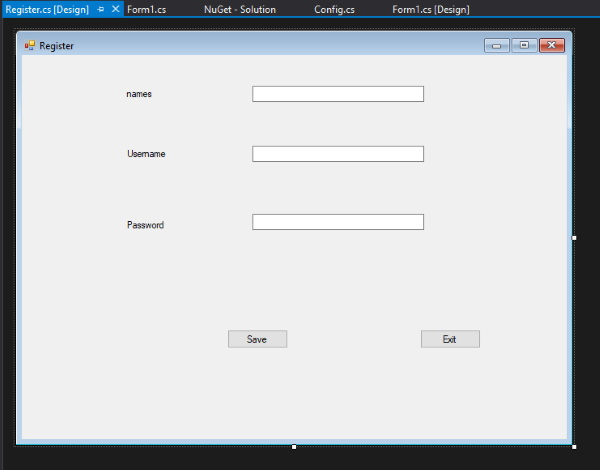
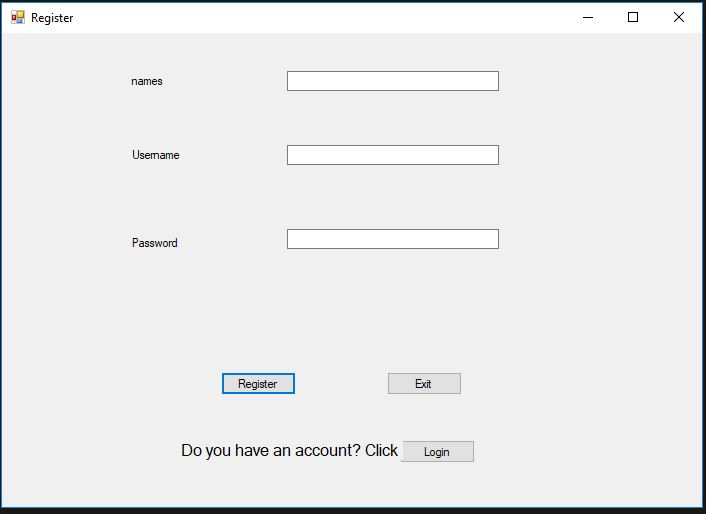
requested changes
updated

diff --git a/Create-Login-and-Register-System-with-C#-Winforms/index.md b/Create-Login-and-Register-System-with-C#-Winforms/index.md
@@ -1,6 +1,6 @@
 ### Introduction
 
-C# or C-sharp is an object-oriented programming language developed by Microsoft that runs on a framework called .Net framework. The language has been used to create many applications, including web applications, mobile applications, computer games, desktop applications, database applications, virtual reality applications, and many others.
+C# or C-sharp is an object-oriented programming language developed by Microsoft that runs on a framework called .Net framework. The language has been used to create many applications, including web applications, mobile applications, computer games, desktop applications, database applications, virtual reality applications, etc.
 
 ### Prerequisites
 
@@ -233,9 +233,9 @@ We have two Windows form classes that is Form1.cs and Register.cs.
 
 - Click on Form1.cs in Solution Explorer, and on the form that displays, add three buttons, two textboxes, and two labels.
 
-The first button will be the register button will launch Register form. The second button will be the Login button, when clicked will query  the database with the input Entered. The second button will execute the login MySQL querry. The third button will close the application.
+The first button will be the register button will launch the Register form. The second button will be the Login button. When the second button is clicked, it will query the database with the input Entered. The second button will execute the login MySQL query. The third button will close the application.
 
-The first textbox will allow username input for login, while the second textbox will enable a password's input. This two input will be passed to the SQL.s
+The first textbox will allow username input for login, while the second textbox will enable a password's input. These two-input will be passed to the SQL.
 
 The labels will indicate the functionality of the two textboxes.
 
@@ -245,9 +245,9 @@ The labels will indicate the functionality of the two textboxes.
 
 - Click on Register.cs in Solution Explorer and on the form that displays add two buttons, three textboxes, and three labels.
 
-The first button will be a save button to save data entered, and the second one will be an exit button that will close the Register form.
+The first button will be a register button to save data entered, and the second one will be an exit button that will close the Register form.
 
-The first textbox will allow input of names for the user, the second textbox will allow input of the username of the user, and the third textbox will enable a password to be entered.
+The first textbox will allow input of names for the user, the second textbox will allow input of the user's username, and the third textbox will enable a password to be entered.
 
 The labels will indicate the functionality of the three textboxes.
 
@@ -270,7 +270,7 @@ The labels will indicate the functionality of the three textboxes.
         }
 ```
 
-On click of register button, add the following code
+On click of the register button, add the following code
 
 ``` c#
 
@@ -280,7 +280,7 @@ On click of register button, add the following code
             register.Show();
 ```
 
-On click of login button, add the following code.
+On click of the login button, add the following code.
 
 ``` c#
 
@@ -297,7 +297,7 @@ On click of login button, add the following code.
             }
 ```
 
-On click of exit button, add the following code.
+On click of the exit button, add the following code.
 
 ``` c#
 
@@ -388,7 +388,7 @@ namespace LoginSysten
 
 ```
 
-On click of exit button, add the following code.
+On click of the exit button, add the following code.
 
 ``` c#
 
@@ -399,7 +399,7 @@ On click of exit button, add the following code.
         }
 ```
 
-On click of the save button, add the following code to save the information.
+On click of the register button, add the following code to save the information.
 
 ``` c#
 
@@ -423,8 +423,8 @@ From the above, we can use C# to create a Desktop system with login functionalit
 In this article;
 
 - We created a database for our application.
-- created Login and Register Interfaces.
-- Connected our application with database.
+- Created Login and Register Interfaces.
+- Connected our application with the database.
 - Coded the logic and functionality.
 
 Happy c-sharp coding ahead.
